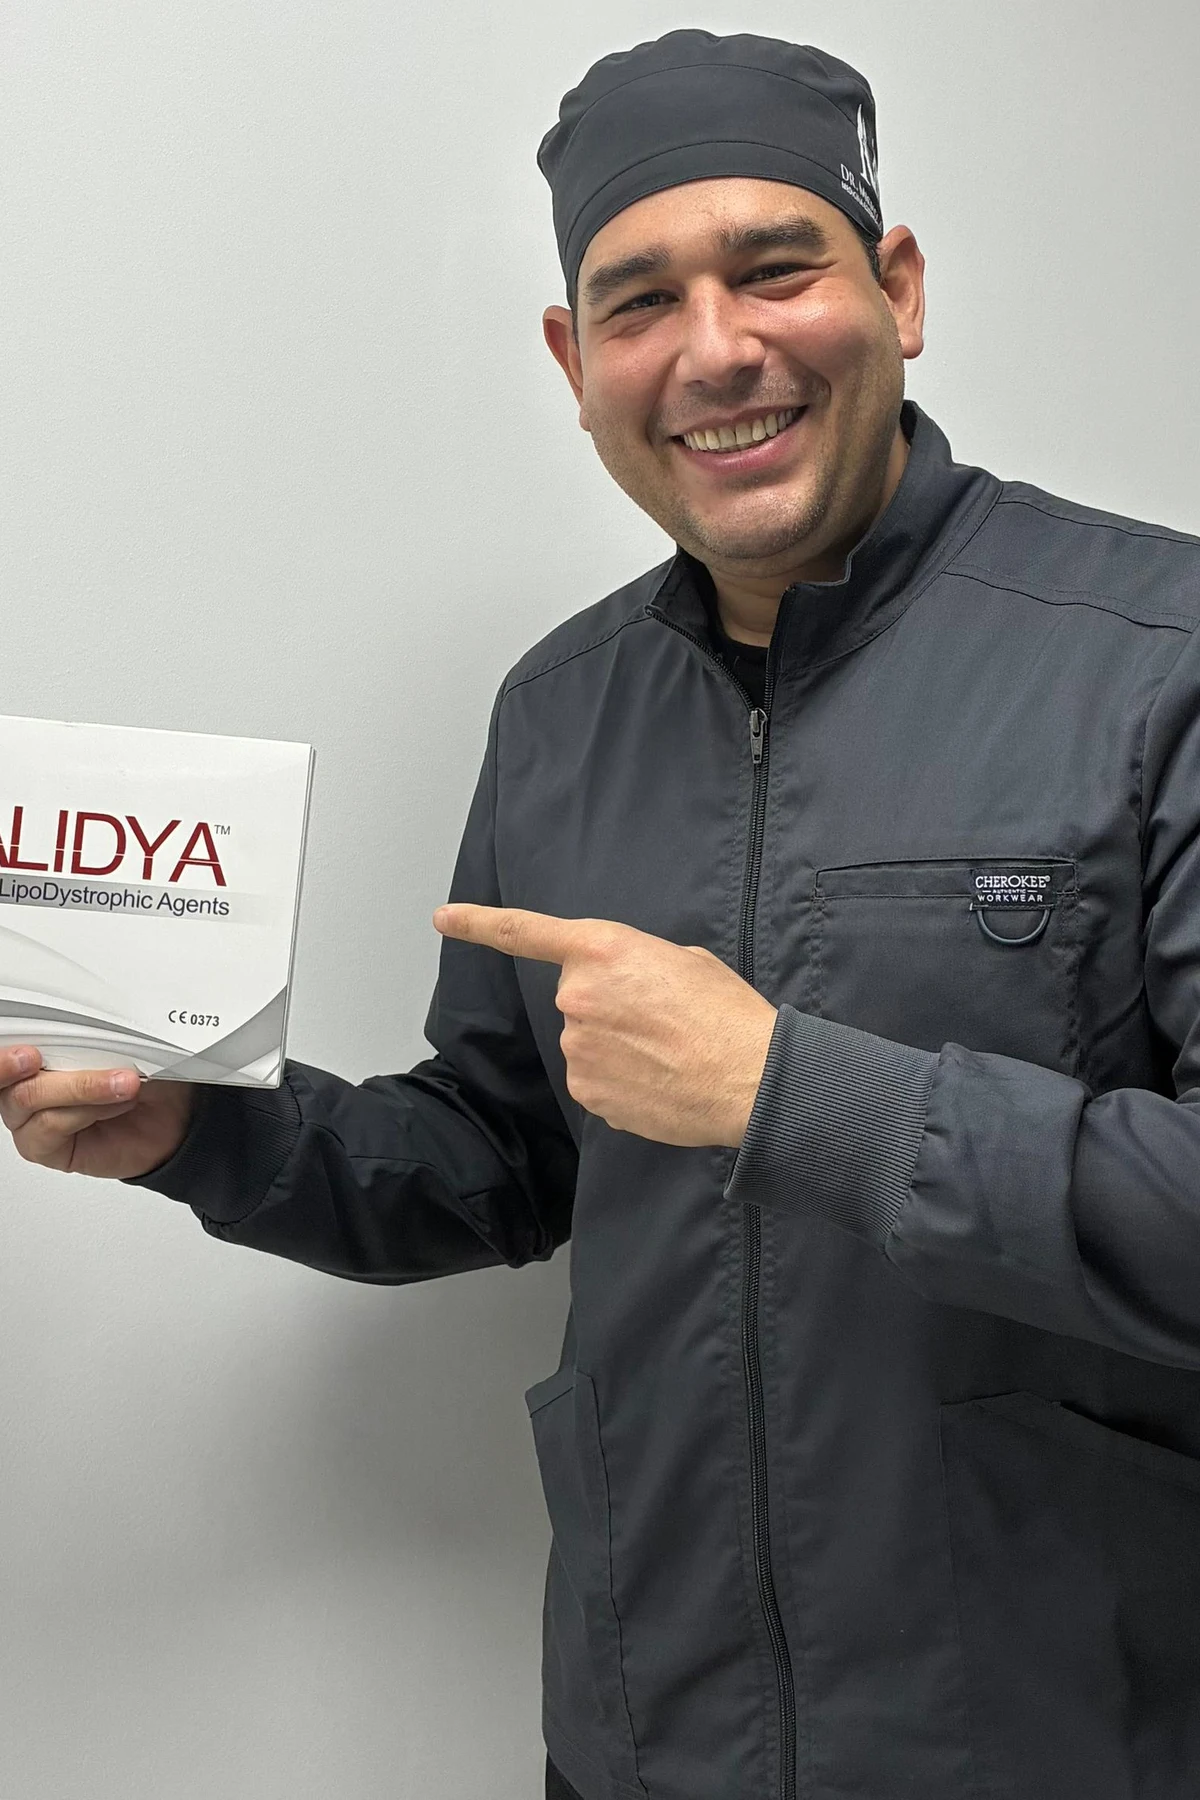
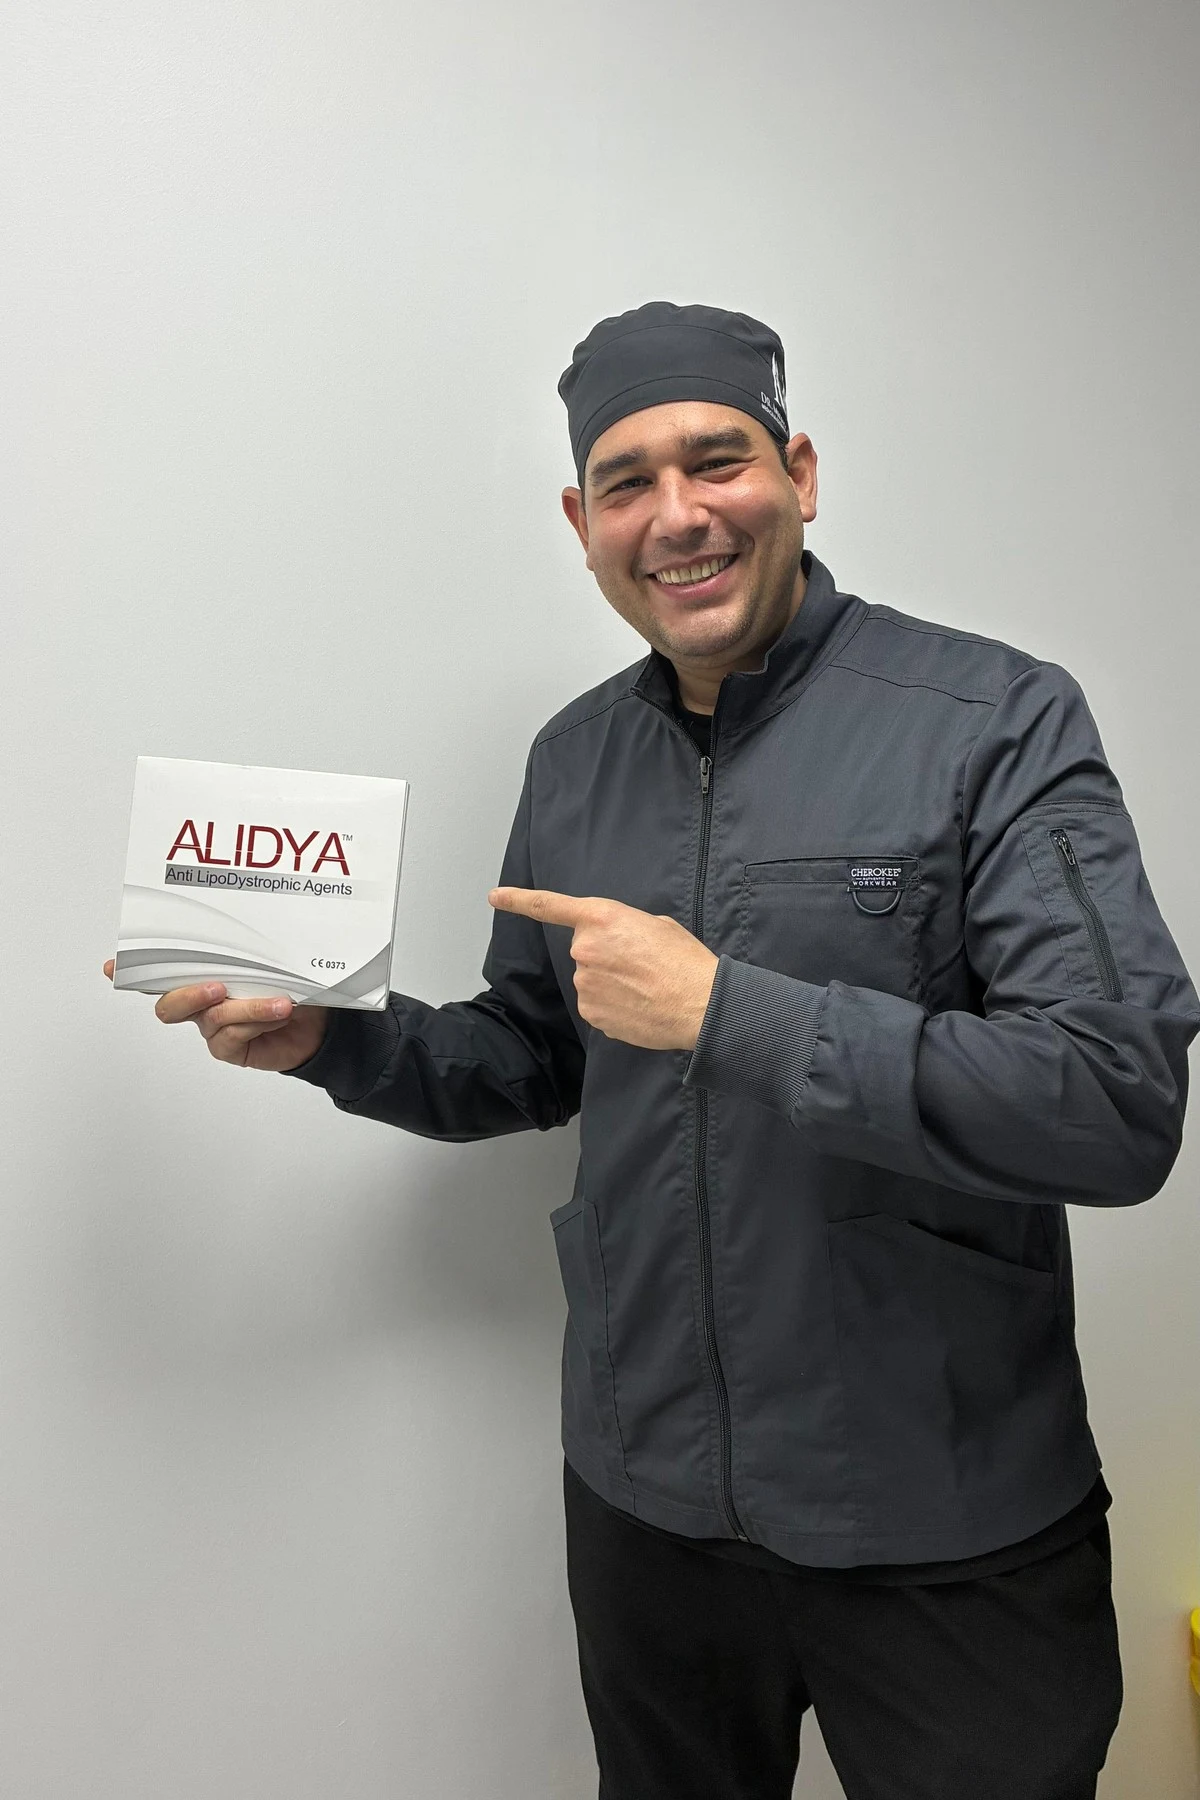
Rehacer recorte de la foto de Alidya (la A quedaba cortada)
El archivo guardado ya tenía la palabra ALIDYA recortada físicamente
desde antes de esta sesión, sin original disponible. Rodolfo volvió a
mandar la foto sin recortar; se rehizo el encuadre mostrando la caja
completa y la cara, en la tarjeta de services.html y el hero de
tratamiento-alidya.html (comparten el mismo archivo).

diff --git a/css/costaserena-theme.css b/css/costaserena-theme.css
@@ -461,3 +461,10 @@ footer .widget h3 {
   object-fit: cover;
   display: block;
 }
+
+/* Hero de Alidya (2026-09-23): el 20% general deja la caja "ALIDYA"
+   fuera del banner corto, mostrando solo la cara. Se baja el ancla
+   para que entren cara + caja. */
+img.jarallax-img[src*="servicio-alidya-caja.webp"] {
+  object-position: center 40% !important;
+}

diff --git a/PROYECTO.md b/PROYECTO.md
@@ -2177,4 +2177,35 @@ tarjetas — ocupa el mismo espacio que el link real pero sin mostrarse
 (`.invisible` de Bootstrap, `visibility: hidden` sin sacar el elemento
 del flujo), así el grid queda parejo sin necesitar CSS nuevo.
 
+Commit `8f10e2f`.
+
+## 2026-09-23 — Foto de Alidya: recorte nuevo con la palabra completa
+
+Rodolfo notó que en la tarjeta de Alidya (`services.html`) la "A" de
+"ALIDYA" en la caja del producto quedaba cortada por el encuadre.
+Investigando, no era un tema de `object-position` — el archivo
+guardado (`images/services/7.webp`, y también
+`images/real/servicio-alidya-caja.webp` que comparte la misma foto en
+el hero de `tratamiento-alidya.html`) ya tenía la "A" recortada
+físicamente desde una sesión anterior a esta, y no había un original
+sin recortar guardado en el repo para rehacer el encuadre.
+
+Se le pidió la foto original a Rodolfo (la tenía en `Recursos/
+IMG_2813.JPG.jpeg`, 2340x4160) y se rehizo el recorte con Python/PIL:
+recorte vertical (ancho completo, alto ajustado a la proporción 2:3)
+con un offset de 500px desde arriba para no desperdiciar el espacio
+vacío de pared/techo por encima de la cabeza — deja "ALIDYA" completo
+y la cara bien encuadrada, mejor aprovechado que un recorte simple
+desde el borde superior.
+
+Se guardó el mismo recorte en ambos archivos (comparten la foto). El
+hero de `tratamiento-alidya.html` (banner ancho y corto) necesitó
+además un `object-position: center 40%` nuevo en
+`costaserena-theme.css` — el 20% por defecto solo mostraba la cara,
+dejando la caja fuera del banner.
+
+Verificado con Claude-in-Chrome: la tarjeta de `services.html` y el
+hero de `tratamiento-alidya.html` muestran "ALIDYA" completo y la cara
+del Dr. Paredes visibles a la vez.
+
 Pendiente: commit + push.
